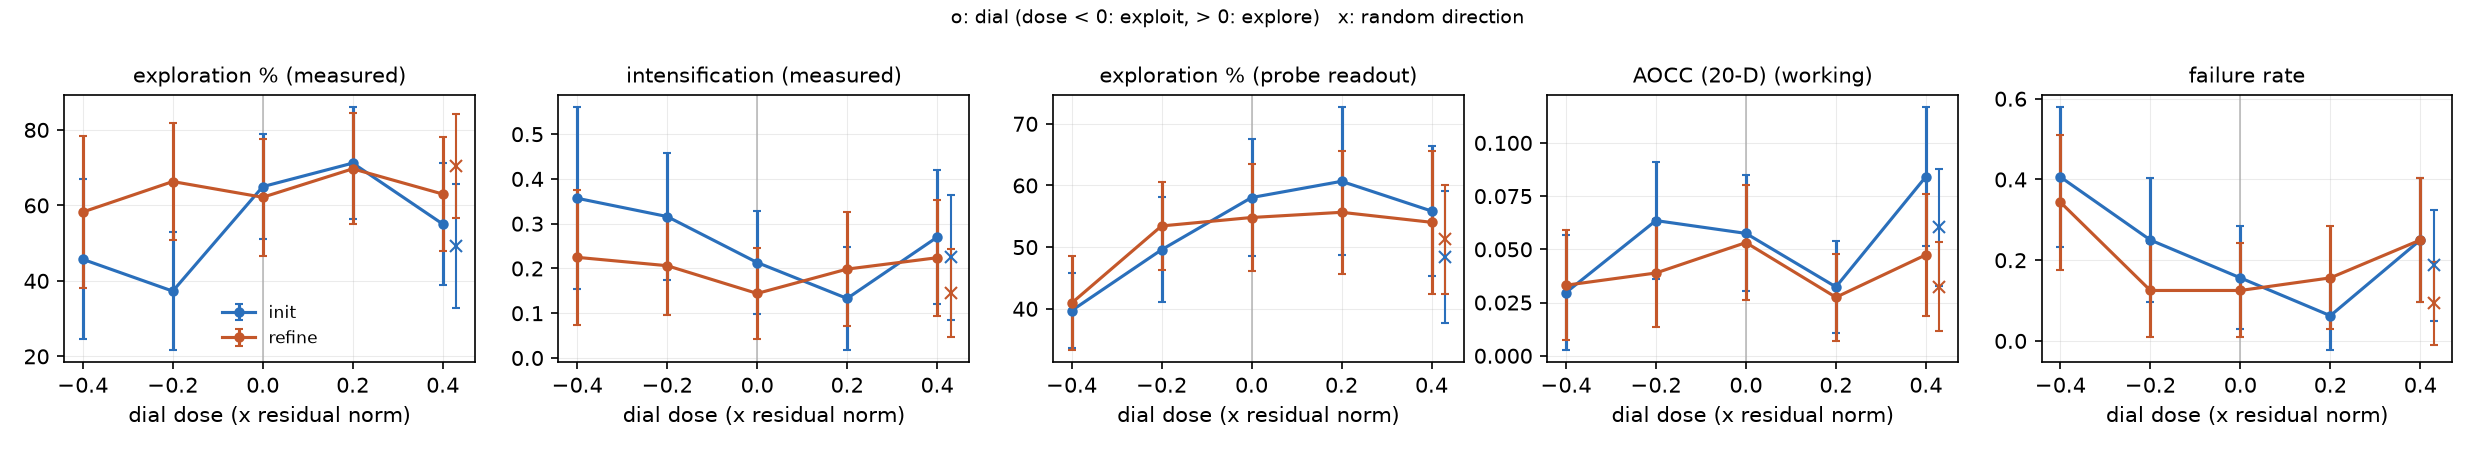
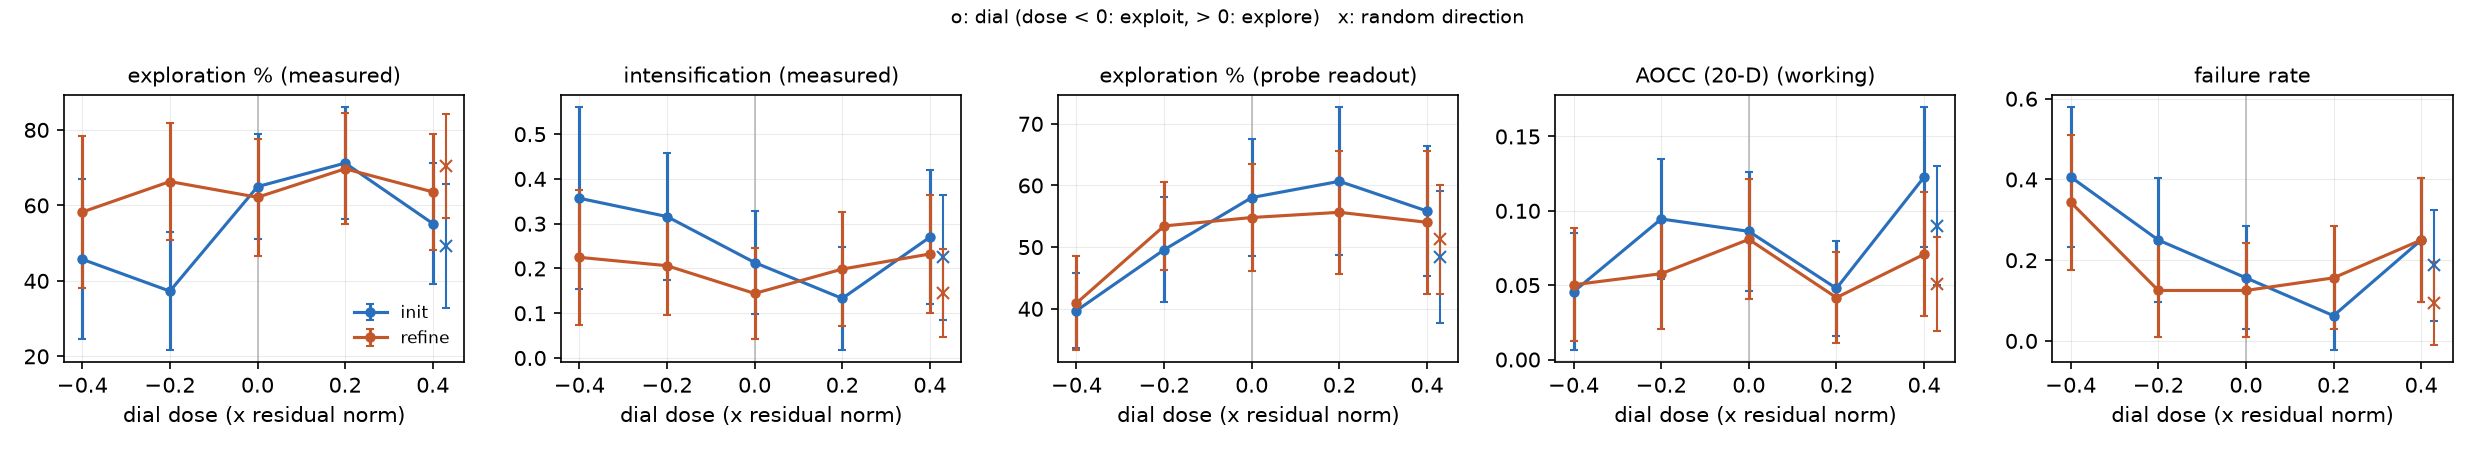
exp05: f20 screen re-scored with AOCC upper 1e3
Claude-Session: https://claude.ai/code/session_01HiY2gsvFMFiKEhDB9kR9JT

diff --git a/experiments/mi/exp05_steering/results/transfer-bbob-f20/summary.md b/experiments/mi/exp05_steering/results/transfer-bbob-f20/summary.md
@@ -6,18 +6,18 @@ Dial `b_exploration_pct_resid@L27`, doses [-0.4, -0.2, 0.2, 0.4] x residual norm
 
 | phase | condition | n | failed | score | exploration_pct | intensification | last_improvement | probe_expl | population | differential_evolution | particle_swarm | restart | simulated_annealing | local_search | gradient | gen_tokens |
 |---|---|---|---|---|---|---|---|---|---|---|---|---|---|---|---|---|
-| init | none | 32 | 0.156 | 0.057 | 64.968 | 0.213 | 0.485 | 58.039 | 0.333 | 0.037 | 0.222 | 0.000 | 0.000 | 0.037 | 0.556 | 522.875 |
-| init | dial@-0.4 | 32 | 0.406 | 0.030 | 45.718 | 0.357 | 0.577 | 39.694 | 0.053 | 0.000 | 0.000 | 0.000 | 0.158 | 0.053 | 0.579 | 715.500 |
-| init | dial@-0.2 | 32 | 0.250 | 0.064 | 37.279 | 0.316 | 0.391 | 49.573 | 0.125 | 0.000 | 0.167 | 0.000 | 0.000 | 0.000 | 0.542 | 527.094 |
-| init | dial@+0.2 | 32 | 0.062 | 0.032 | 71.205 | 0.133 | 0.566 | 60.672 | 0.333 | 0.067 | 0.133 | 0.100 | 0.000 | 0.033 | 0.567 | 490.219 |
-| init | dial@+0.4 | 32 | 0.250 | 0.084 | 55.065 | 0.270 | 0.386 | 55.855 | 0.708 | 0.167 | 0.083 | 0.083 | 0.000 | 0.042 | 0.333 | 515.094 |
-| init | random@+0.4 | 32 | 0.188 | 0.060 | 49.331 | 0.225 | 0.455 | 48.322 | 0.269 | 0.077 | 0.231 | 0.000 | 0.115 | 0.000 | 0.385 | 559.125 |
-| refine | none | 32 | 0.125 | 0.053 | 62.153 | 0.144 | 0.530 | 54.803 | 0.321 | 0.000 | 0.250 | 0.000 | 0.036 | 0.107 | 0.750 | 663.406 |
-| refine | dial@-0.4 | 32 | 0.344 | 0.033 | 58.240 | 0.225 | 0.515 | 40.912 | 0.095 | 0.000 | 0.048 | 0.000 | 0.048 | 0.095 | 0.857 | 865.938 |
-| refine | dial@-0.2 | 32 | 0.125 | 0.039 | 66.316 | 0.206 | 0.456 | 53.434 | 0.250 | 0.000 | 0.179 | 0.000 | 0.000 | 0.071 | 0.750 | 709.812 |
-| refine | dial@+0.2 | 32 | 0.156 | 0.027 | 69.695 | 0.199 | 0.559 | 55.646 | 0.667 | 0.074 | 0.148 | 0.000 | 0.000 | 0.074 | 0.704 | 696.656 |
-| refine | dial@+0.4 | 32 | 0.250 | 0.047 | 63.005 | 0.224 | 0.521 | 54.026 | 0.792 | 0.125 | 0.083 | 0.042 | 0.000 | 0.083 | 0.500 | 715.469 |
-| refine | random@+0.4 | 32 | 0.094 | 0.033 | 70.422 | 0.146 | 0.546 | 51.288 | 0.379 | 0.000 | 0.172 | 0.000 | 0.000 | 0.000 | 0.690 | 725.594 |
+| init | none | 32 | 0.156 | 0.086 | 64.968 | 0.213 | 0.485 | 58.039 | 0.333 | 0.037 | 0.222 | 0.000 | 0.000 | 0.037 | 0.556 | 522.875 |
+| init | dial@-0.4 | 32 | 0.406 | 0.046 | 45.718 | 0.357 | 0.577 | 39.694 | 0.053 | 0.000 | 0.000 | 0.000 | 0.158 | 0.053 | 0.579 | 715.500 |
+| init | dial@-0.2 | 32 | 0.250 | 0.095 | 37.279 | 0.316 | 0.391 | 49.573 | 0.125 | 0.000 | 0.167 | 0.000 | 0.000 | 0.000 | 0.542 | 527.094 |
+| init | dial@+0.2 | 32 | 0.062 | 0.048 | 71.205 | 0.133 | 0.566 | 60.672 | 0.333 | 0.067 | 0.133 | 0.100 | 0.000 | 0.033 | 0.567 | 490.219 |
+| init | dial@+0.4 | 32 | 0.250 | 0.123 | 55.193 | 0.270 | 0.387 | 55.855 | 0.708 | 0.167 | 0.083 | 0.083 | 0.000 | 0.042 | 0.333 | 515.094 |
+| init | random@+0.4 | 32 | 0.188 | 0.090 | 49.331 | 0.225 | 0.455 | 48.322 | 0.269 | 0.077 | 0.231 | 0.000 | 0.115 | 0.000 | 0.385 | 559.125 |
+| refine | none | 32 | 0.125 | 0.081 | 62.153 | 0.144 | 0.530 | 54.803 | 0.321 | 0.000 | 0.250 | 0.000 | 0.036 | 0.107 | 0.750 | 663.406 |
+| refine | dial@-0.4 | 32 | 0.344 | 0.050 | 58.240 | 0.225 | 0.515 | 40.912 | 0.095 | 0.000 | 0.048 | 0.000 | 0.048 | 0.095 | 0.857 | 865.938 |
+| refine | dial@-0.2 | 32 | 0.125 | 0.058 | 66.316 | 0.206 | 0.456 | 53.434 | 0.250 | 0.000 | 0.179 | 0.000 | 0.000 | 0.071 | 0.750 | 709.812 |
+| refine | dial@+0.2 | 32 | 0.156 | 0.042 | 69.695 | 0.199 | 0.559 | 55.646 | 0.667 | 0.074 | 0.148 | 0.000 | 0.000 | 0.074 | 0.704 | 696.656 |
+| refine | dial@+0.4 | 32 | 0.250 | 0.071 | 63.581 | 0.232 | 0.523 | 54.026 | 0.792 | 0.125 | 0.083 | 0.042 | 0.000 | 0.083 | 0.500 | 715.469 |
+| refine | random@+0.4 | 32 | 0.094 | 0.051 | 70.422 | 0.146 | 0.546 | 51.288 | 0.379 | 0.000 | 0.172 | 0.000 | 0.000 | 0.000 | 0.690 | 725.594 |
 
 ## Slopes on the signed dial dose
 
@@ -25,11 +25,11 @@ Fixed effects per prompt x replicate; 95% CI from a bootstrap over them. `failed
 
 | phase | metric | n | slope | lo | hi |
 |---|---|---|---|---|---|
-| pooled | exploration_pct | 250 | 20.453 | -1.524 | 41.269 |
-| pooled | intensification | 252 | -0.116 | -0.288 | 0.061 |
-| pooled | last_improvement | 252 | 0.009 | -0.147 | 0.167 |
+| pooled | exploration_pct | 250 | 20.790 | -1.118 | 41.528 |
+| pooled | intensification | 252 | -0.112 | -0.285 | 0.064 |
+| pooled | last_improvement | 252 | 0.010 | -0.147 | 0.168 |
 | pooled | probe_expl_w | 252 | 14.232 | 2.798 | 24.898 |
-| pooled | score | 252 | 0.017 | -0.016 | 0.047 |
+| pooled | score | 252 | 0.023 | -0.024 | 0.066 |
 | pooled | failed_f | 320 | -0.164 | -0.336 | 0.008 |
 | pooled | population | 320 | 0.836 | 0.688 | 0.977 |
 | pooled | differential_evolution | 320 | 0.234 | 0.133 | 0.352 |
@@ -38,11 +38,11 @@ Fixed effects per prompt x replicate; 95% CI from a bootstrap over them. `failed
 | pooled | simulated_annealing | 320 | -0.102 | -0.188 | -0.031 |
 | pooled | local_search | 320 | -0.023 | -0.078 | 0.023 |
 | pooled | gradient | 320 | -0.352 | -0.531 | -0.172 |
-| init | exploration_pct | 123 | 28.900 | -3.444 | 60.873 |
+| init | exploration_pct | 123 | 29.026 | -3.418 | 60.889 |
 | init | intensification | 124 | -0.193 | -0.480 | 0.094 |
-| init | last_improvement | 124 | -0.067 | -0.249 | 0.118 |
+| init | last_improvement | 124 | -0.067 | -0.249 | 0.119 |
 | init | probe_expl_w | 124 | 17.500 | -2.740 | 36.086 |
-| init | score | 124 | 0.034 | -0.019 | 0.082 |
+| init | score | 124 | 0.047 | -0.030 | 0.116 |
 | init | failed_f | 160 | -0.250 | -0.500 | 0.016 |
 | init | population | 160 | 0.797 | 0.562 | 1.016 |
 | init | differential_evolution | 160 | 0.250 | 0.109 | 0.422 |
@@ -51,11 +51,11 @@ Fixed effects per prompt x replicate; 95% CI from a bootstrap over them. `failed
 | init | simulated_annealing | 160 | -0.125 | -0.250 | -0.031 |
 | init | local_search | 160 | -0.047 | -0.156 | 0.031 |
 | init | gradient | 160 | -0.312 | -0.594 | -0.031 |
-| refine | exploration_pct | 127 | 12.556 | -17.018 | 38.012 |
-| refine | intensification | 128 | -0.045 | -0.240 | 0.159 |
-| refine | last_improvement | 128 | 0.079 | -0.168 | 0.304 |
+| refine | exploration_pct | 127 | 13.089 | -16.585 | 38.744 |
+| refine | intensification | 128 | -0.038 | -0.233 | 0.169 |
+| refine | last_improvement | 128 | 0.081 | -0.168 | 0.306 |
 | refine | probe_expl_w | 128 | 11.185 | -3.090 | 25.512 |
-| refine | score | 128 | 0.001 | -0.035 | 0.038 |
+| refine | score | 128 | 0.001 | -0.053 | 0.055 |
 | refine | failed_f | 160 | -0.078 | -0.328 | 0.156 |
 | refine | population | 160 | 0.875 | 0.687 | 1.047 |
 | refine | differential_evolution | 160 | 0.219 | 0.078 | 0.375 |
@@ -73,31 +73,31 @@ Fixed effects per prompt x replicate; 95% CI from a bootstrap over them. `failed
 | dial@-0.4 | intensification | 0.167 | 0.017 | 0.316 |
 | dial@-0.4 | last_improvement | -0.009 | -0.158 | 0.133 |
 | dial@-0.4 | probe_expl_w | -11.003 | -18.387 | -3.552 |
-| dial@-0.4 | score | -0.029 | -0.057 | -0.000 |
+| dial@-0.4 | score | -0.043 | -0.085 | -0.002 |
 | dial@-0.4 | failed_f | 0.234 | 0.078 | 0.391 |
 | dial@-0.2 | exploration_pct | -14.761 | -28.678 | -0.382 |
 | dial@-0.2 | intensification | 0.082 | -0.026 | 0.190 |
 | dial@-0.2 | last_improvement | -0.131 | -0.244 | -0.020 |
 | dial@-0.2 | probe_expl_w | -5.773 | -12.528 | 1.100 |
-| dial@-0.2 | score | -0.001 | -0.025 | 0.021 |
+| dial@-0.2 | score | -0.004 | -0.038 | 0.029 |
 | dial@-0.2 | failed_f | 0.047 | -0.062 | 0.156 |
 | dial@+0.2 | exploration_pct | 7.606 | -5.943 | 21.195 |
 | dial@+0.2 | intensification | -0.031 | -0.139 | 0.082 |
 | dial@+0.2 | last_improvement | 0.038 | -0.078 | 0.154 |
 | dial@+0.2 | probe_expl_w | 3.746 | -6.488 | 14.049 |
-| dial@+0.2 | score | -0.019 | -0.041 | 0.003 |
+| dial@+0.2 | score | -0.029 | -0.062 | 0.004 |
 | dial@+0.2 | failed_f | -0.031 | -0.156 | 0.094 |
 | dial@+0.4 | exploration_pct | -1.345 | -16.429 | 12.329 |
 | dial@+0.4 | intensification | 0.109 | 0.006 | 0.215 |
 | dial@+0.4 | last_improvement | -0.088 | -0.210 | 0.039 |
 | dial@+0.4 | probe_expl_w | -0.694 | -10.122 | 8.482 |
-| dial@+0.4 | score | 0.013 | -0.014 | 0.041 |
+| dial@+0.4 | score | 0.016 | -0.024 | 0.058 |
 | dial@+0.4 | failed_f | 0.109 | -0.016 | 0.250 |
 | random@+0.4 | exploration_pct | -7.032 | -21.776 | 8.256 |
 | random@+0.4 | intensification | 0.046 | -0.063 | 0.153 |
 | random@+0.4 | last_improvement | -0.062 | -0.199 | 0.074 |
 | random@+0.4 | probe_expl_w | -7.220 | -15.505 | 0.031 |
-| random@+0.4 | score | 0.002 | -0.023 | 0.027 |
+| random@+0.4 | score | 0.004 | -0.034 | 0.040 |
 | random@+0.4 | failed_f | 0.000 | -0.109 | 0.109 |
 
 ## Probe readout vs measured exploration

diff --git a/experiments/mi/exp05_steering/README.md b/experiments/mi/exp05_steering/README.md
@@ -842,4 +842,6 @@ Restarted 2026-11-15 00:02Z with the AOCC window on f20 widened to
 1e2 many working algorithms scored exactly 0, a weak signal for LLaMEA.
 The first start (about 5 minutes, AOCC up to 1e2) is in
 `$MI_CACHE/backups/discarded/`. The f20 screen is re-scored with the same
-window (generations unchanged).
+window (generations unchanged): working-code AOCC is now 0.05 to 0.12
+(unsteered 0.086 init, 0.081 refine), the dose slope on AOCC +0.023
+(−0.024 to +0.066), still n.s.; behaviour slopes unchanged.
